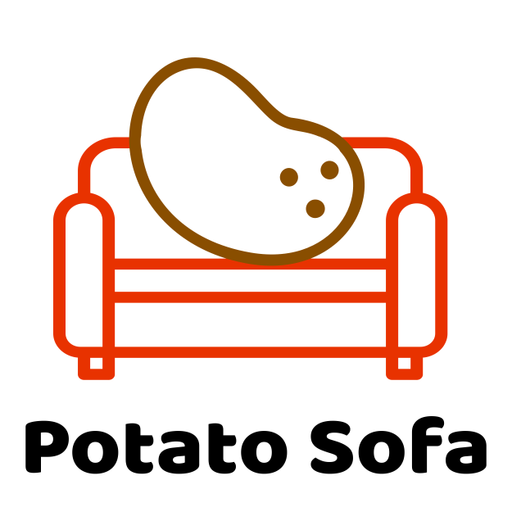
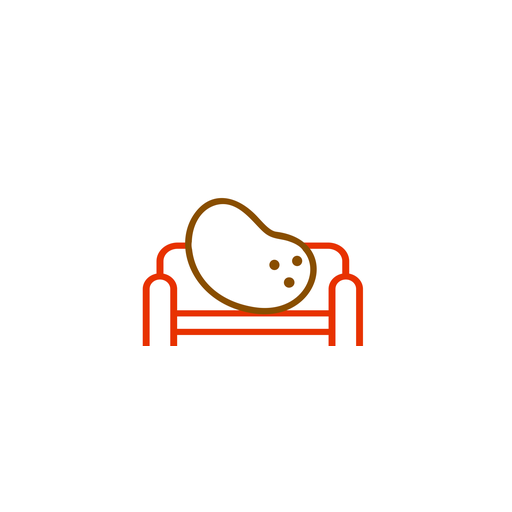
feat(shipping): quick due-date edit + mark-complete button + UI sync
- Add inline 更改出貨日 picker in card detail — saves directly to Trello without opening 排程出貨
- Add 標記完成 (🏁) button for Shipped cards, mirrors 標記已出貨 pattern
- Move both mark buttons to header as compact chips (like Trello native)
- onCardUpdate callback propagates idList/due changes back to parent so card list and header refresh immediately without reload
- Fix list name showing in English: merge Trello API response with LIST_NAMES so Chinese translations always take priority

feat(trello): add SOFA_AMOUNT custom field + fix label names
- Add SOFA_AMOUNT ("5d68a10ca487a032ea013c7f") confirmed via Trello API
- Rename FURNITURE_AMOUNT label 家具金額→傢俱, BEDDING_AMOUNT 寢具金額→床組 to match Trello field names

fix(pwa): regenerate icons without text, add safe-zone padding
- Crop "Potato Sofa" text from bottom of logo.png
- Rebuild icon-192.png, icon-512.png, apple-touch-icon.png with 22% padding
- Icons now display correctly without clipping in iOS rounded-rect mask

fix(middleware): add sw.js and workbox- to public path allowlist

diff --git a/src/app/shipping-notice/ShippingNoticeClient.tsx b/src/app/shipping-notice/ShippingNoticeClient.tsx
@@ -1,6 +1,7 @@
 "use client";
 
 import { useEffect, useMemo, useRef, useState } from "react";
+import { useRouter } from "next/navigation";
 import { Search, Copy, Check, Truck, X, ChevronLeft, ChevronRight, Printer, Navigation } from "lucide-react";
 
 import { Input } from "@/components/ui/input";
@@ -171,8 +172,9 @@ const CUSTOM_FIELD_DEFS: FieldDef[] = [
   { id: TRELLO.CUSTOM_FIELDS.ACCESSORIES,            label: "配件",          type: "text"   },
   { id: TRELLO.CUSTOM_FIELDS.CHAIR_LEG,              label: "椅腳",          type: "text"   },
   { id: TRELLO.CUSTOM_FIELDS.SEAT_MATERIALS,         label: "坐墊材料",      type: "text"   },
-  { id: TRELLO.CUSTOM_FIELDS.FURNITURE_AMOUNT,       label: "家具金額",      type: "number" },
-  { id: TRELLO.CUSTOM_FIELDS.BEDDING_AMOUNT,         label: "寢具金額",      type: "number" },
+  { id: TRELLO.CUSTOM_FIELDS.SOFA_AMOUNT,             label: "沙發",          type: "number" },
+  { id: TRELLO.CUSTOM_FIELDS.FURNITURE_AMOUNT,       label: "傢俱",          type: "number" },
+  { id: TRELLO.CUSTOM_FIELDS.BEDDING_AMOUNT,         label: "床組",          type: "number" },
   { id: TRELLO.CUSTOM_FIELDS.PRIMARY_CONTACT_NAME,   label: "主要聯絡人",    type: "text"   },
   { id: TRELLO.CUSTOM_FIELDS.PRIMARY_CONTACT_PHONE,  label: "主要電話",      type: "text"   },
   { id: TRELLO.CUSTOM_FIELDS.SECONDARY_CONTACT_NAME, label: "次要聯絡人",    type: "text"   },
@@ -287,7 +289,14 @@ function ResultModal({
           <Button variant="outline" size="sm" onClick={onClose}>
             關閉
           </Button>
-          <CopyButton text={content} label="複製全文" onCopied={onCopied} />
+          <CopyButton
+            text={content}
+            label="複製全文"
+            onCopied={async () => {
+              if (onCopied) await onCopied();
+              onClose();
+            }}
+          />
         </div>
       </div>
     </div>
@@ -1360,9 +1369,11 @@ interface CardDetailProps {
   drivers: DriverRecord[];
   attachments: TrelloAttachment[];
   onClose: () => void;
+  onCardUpdate?: (patch: Partial<TrelloCard>) => void;
 }
 
-function CardDetail({ card, drivers, attachments, onClose }: CardDetailProps) {
+function CardDetail({ card, drivers, attachments, onClose, onCardUpdate }: CardDetailProps) {
+  const router = useRouter();
   const [customFields, setCustomFields] = useState<CustomFieldItem[]>([]);
   const [loading, setLoading] = useState(true);
   const [view, setView] = useState<"actions" | "shipping" | "production" | "customer" | "checklist" | "customfields">("actions");
@@ -1370,15 +1381,29 @@ function CardDetail({ card, drivers, attachments, onClose }: CardDetailProps) {
   const [isMoving, setIsMoving] = useState(false);
   const [showMovePicker, setShowMovePicker] = useState(false);
   const [uploadState, setUploadState] = useState<"idle" | "uploading" | "done" | "error">("idle");
+  const [showDuePicker, setShowDuePicker] = useState(false);
+  const [dueDatetimeLocal, setDueDatetimeLocal] = useState("");
+  const [isSavingDue, setIsSavingDue] = useState(false);
 
   useEffect(() => {
     setLoading(true);
     setView("actions");
+    setShowDuePicker(false);
+    // Convert card.due (UTC ISO) to datetime-local format in local timezone
+    if (card.due) {
+      const d = new Date(card.due);
+      const pad = (n: number) => String(n).padStart(2, "0");
+      setDueDatetimeLocal(
+        `${d.getFullYear()}-${pad(d.getMonth() + 1)}-${pad(d.getDate())}T${pad(d.getHours())}:${pad(d.getMinutes())}`
+      );
+    } else {
+      setDueDatetimeLocal("");
+    }
     fetchCustomFields(card.id)
       .then(setCustomFields)
       .catch(() => setCustomFields([]))
       .finally(() => setLoading(false));
-  }, [card.id]);
+  }, [card.id, card.due]);
 
   useEffect(() => {
     async function handlePaste(e: ClipboardEvent) {
@@ -1448,6 +1473,7 @@ function CardDetail({ card, drivers, attachments, onClose }: CardDetailProps) {
   const driverTrelloLabel = card.labels.find((l) => l.id === driverLabel?.labelId);
   const styleLabel = card.labels.find((l) => l.name.startsWith("成交/"));
   const isWaitShipping = card.idList === TRELLO.LISTS.WAIT_SHIPPING;
+  const isShipped = card.idList === TRELLO.LISTS.SHIPPED;
   const checkTotal = card.badges?.checkItems ?? 0;
   const [checkDone, setCheckDone] = useState(card.badges?.checkItemsChecked ?? 0);
 
@@ -1456,6 +1482,7 @@ function CardDetail({ card, drivers, attachments, onClose }: CardDetailProps) {
     setIsMoving(true);
     try {
       await moveCardToList(card.id, TRELLO.LISTS.SHIPPED, true);
+      onCardUpdate?.({ idList: TRELLO.LISTS.SHIPPED, dueComplete: true });
     } catch (e: unknown) {
       alert(e instanceof Error ? e.message : "操作失敗");
     } finally {
@@ -1476,6 +1503,59 @@ function CardDetail({ card, drivers, attachments, onClose }: CardDetailProps) {
     }
   }
 
+  async function handleMarkCompleted() {
+    if (!window.confirm("確認將此卡片標記為「完成」？")) return;
+    setIsMoving(true);
+    try {
+      await moveCardToList(card.id, TRELLO.LISTS.COMPLETED, true);
+      onCardUpdate?.({ idList: TRELLO.LISTS.COMPLETED, dueComplete: true });
+    } catch (e: unknown) {
+      alert(e instanceof Error ? e.message : "操作失敗");
+    } finally {
+      setIsMoving(false);
+    }
+  }
+
+  async function handleUpdateDue() {
+    if (!dueDatetimeLocal) return;
+    setIsSavingDue(true);
+    try {
+      const iso = new Date(dueDatetimeLocal).toISOString();
+      await updateCardDue(card.id, iso, card.dueComplete ?? false);
+      onCardUpdate?.({ due: iso });
+      setShowDuePicker(false);
+    } catch (e: unknown) {
+      alert(e instanceof Error ? e.message : "更新失敗");
+    } finally {
+      setIsSavingDue(false);
+    }
+  }
+
+  async function handleCheckPayment() {
+    try {
+      const checklists = await fetchChecklists(card.id);
+      const allItems = checklists.flatMap((cl) => cl.checkItems);
+      const lastDollarItem = [...allItems].reverse().find((item) => item.name.includes("$"));
+      const dollarIndex = lastDollarItem?.name.indexOf("$") ?? -1;
+      const rawAmount = dollarIndex >= 0 ? lastDollarItem!.name.slice(dollarIndex) : "";
+      const cleanAmount = rawAmount.replace("$", "").replace(/,/g, "");
+      const orderNum = card.name.split(" ")[0] ?? "";
+      const driverLabel = drivers.find((d) => card.labels.some((l) => l.id === d.labelId));
+      const cardInfo = {
+        due: card.due ?? "",
+        dueComplete: card.dueComplete ?? false,
+        driverName: driverLabel?.title ?? "",
+      };
+      localStorage.setItem("CHECK_PAYMENT", "1");
+      localStorage.setItem("FINAL_PAYMENT", cleanAmount);
+      localStorage.setItem("ORDER_NUM_PAYMENT", orderNum);
+      localStorage.setItem("CURRENT_CARD_INFO", JSON.stringify(cardInfo));
+      router.push("/remittance");
+    } catch (e: unknown) {
+      alert(e instanceof Error ? e.message : "查收款項失敗");
+    }
+  }
+
   return (
     <div className="flex h-full flex-col">
       {/* Header */}
@@ -1490,6 +1570,24 @@ function CardDetail({ card, drivers, attachments, onClose }: CardDetailProps) {
               <span className={checkDone === checkTotal ? "text-green-600" : ""}>
                 ☑ {checkDone}/{checkTotal}
               </span>
+            )}
+            {isWaitShipping && (
+              <button
+                onClick={() => void handleMarkShipped()}
+                disabled={isMoving}
+                className="rounded px-1.5 py-0.5 text-xs font-medium bg-green-100 text-green-700 hover:bg-green-200 disabled:opacity-50"
+              >
+                {isMoving ? "…" : "✅ 標記已出貨"}
+              </button>
+            )}
+            {isShipped && (
+              <button
+                onClick={() => void handleMarkCompleted()}
+                disabled={isMoving}
+                className="rounded px-1.5 py-0.5 text-xs font-medium bg-green-100 text-green-700 hover:bg-green-200 disabled:opacity-50"
+              >
+                {isMoving ? "…" : "🏁 標記完成"}
+              </button>
             )}
           </p>
           {scheduleDisplay && (
@@ -1579,16 +1677,13 @@ function CardDetail({ card, drivers, attachments, onClose }: CardDetailProps) {
           />
         ) : (
           <div className="space-y-2">
-            {isWaitShipping && (
-              <button
-                onClick={() => void handleMarkShipped()}
-                disabled={isMoving}
-                className="flex w-full items-center gap-2 rounded-lg border border-green-300 bg-green-50 px-3 py-2.5 text-left text-sm text-green-700 hover:bg-green-100 disabled:opacity-50"
-              >
-                <span className="text-base">✅</span>
-                <span>{isMoving ? "更新中…" : "標記已出貨"}</span>
-              </button>
-            )}
+            <button
+              onClick={() => void handleCheckPayment()}
+              className="flex w-full items-center gap-2 rounded-lg border border-green-200 bg-green-50 px-3 py-2.5 text-left text-sm text-green-700 hover:bg-green-100"
+            >
+              <span className="text-base">💰</span>
+              <span>查收款項</span>
+            </button>
             <button
               onClick={() => setView("shipping")}
               className="flex w-full items-center gap-2 rounded-lg border border-[var(--border)] px-3 py-2.5 text-left text-sm hover:bg-[var(--bg-hover)]"
@@ -1643,6 +1738,41 @@ function CardDetail({ card, drivers, attachments, onClose }: CardDetailProps) {
               <span className="text-base">✂</span>
               <span>裁剪工作單</span>
             </button>
+            {showDuePicker ? (
+              <div className="rounded-lg border border-[var(--border)] p-2.5">
+                <p className="mb-2 text-xs font-medium text-[var(--text-secondary)]">更改出貨日期</p>
+                <input
+                  type="datetime-local"
+                  value={dueDatetimeLocal}
+                  onChange={(e) => setDueDatetimeLocal(e.target.value)}
+                  className="w-full rounded border border-[var(--border)] bg-[var(--bg-input)] px-2 py-1.5 text-sm"
+                />
+                <div className="mt-2 flex gap-2">
+                  <button
+                    onClick={() => void handleUpdateDue()}
+                    disabled={isSavingDue || !dueDatetimeLocal}
+                    className="flex-1 rounded bg-[var(--accent)] px-3 py-1.5 text-sm font-medium text-white disabled:opacity-50"
+                  >
+                    {isSavingDue ? "儲存中…" : "儲存"}
+                  </button>
+                  <button
+                    onClick={() => setShowDuePicker(false)}
+                    className="rounded px-3 py-1.5 text-sm text-[var(--text-tertiary)] hover:bg-[var(--bg-hover)]"
+                  >
+                    取消
+                  </button>
+                </div>
+              </div>
+            ) : (
+              <button
+                onClick={() => setShowDuePicker(true)}
+                className="flex w-full items-center gap-2 rounded-lg border border-[var(--border)] px-3 py-2.5 text-left text-sm hover:bg-[var(--bg-hover)]"
+              >
+                <span className="text-base">🗓</span>
+                <span>更改出貨日</span>
+                {dueDate && <span className="ml-auto text-xs text-[var(--text-tertiary)]">{dueDate}</span>}
+              </button>
+            )}
             {showMovePicker ? (
               <div className="rounded-lg border border-[var(--border)] p-2.5">
                 <p className="mb-2 text-xs font-medium text-[var(--text-secondary)]">移動到清單...</p>
@@ -1708,6 +1838,7 @@ export function ShippingNoticeClient() {
   const [cardCustomFieldsMap, setCardCustomFieldsMap] = useState<Record<string, CustomFieldItem[]>>({});
   const [previewImages, setPreviewImages] = useState<string[][] | null>(null);
   const inputRef = useRef<HTMLInputElement>(null);
+  const skipSearchRef = useRef(false);
   const selectedCardId = selectedCard?.id ?? null;
   const previewCardId = selectedCardId ?? cards[0]?.id ?? null;
   // thumbnail URLs for the last image (display in search card)
@@ -1726,10 +1857,33 @@ export function ShippingNoticeClient() {
       .then((lists) => {
         const map: Record<string, string> = {};
         for (const l of lists) map[l.id] = l.name;
-        setListNames(map);
+        // LIST_NAMES 的中文翻譯優先，其餘清單保留 Trello 原名
+        setListNames({ ...map, ...LIST_NAMES });
       })
       .catch(() => {});
   }, []);
+
+  useEffect(() => {
+    const savedQuery = sessionStorage.getItem("shipping_notice_query");
+    const savedCards = sessionStorage.getItem("shipping_notice_cards");
+    if (!savedQuery) return;
+    setQuery(savedQuery);
+    if (savedCards) {
+      try {
+        const parsed = JSON.parse(savedCards) as TrelloCard[];
+        setCards(parsed);
+        if (parsed.length === 1) setSelectedCard(parsed[0]);
+        skipSearchRef.current = true;
+        setSubmittedQuery(savedQuery);
+      } catch { /* ignore */ }
+    }
+  }, []);
+
+  useEffect(() => {
+    if (submittedQuery && cards.length > 0) {
+      sessionStorage.setItem("shipping_notice_cards", JSON.stringify(cards));
+    }
+  }, [cards, submittedQuery]);
 
   useEffect(() => {
     setCardAttachmentsCardId(previewCardId);
@@ -1750,6 +1904,10 @@ export function ShippingNoticeClient() {
       setSelectedCard(null);
       setCards([]);
       setSearchError("");
+      return;
+    }
+    if (skipSearchRef.current) {
+      skipSearchRef.current = false;
       return;
     }
     setSearching(true);
@@ -1778,6 +1936,7 @@ export function ShippingNoticeClient() {
   function handleSearch() {
     const q = query.trim();
     if (!q) return;
+    sessionStorage.setItem("shipping_notice_query", q);
     setSubmittedQuery(q);
   }
 
@@ -1940,6 +2099,10 @@ export function ShippingNoticeClient() {
               drivers={drivers}
               attachments={cardAttachments}
               onClose={() => setSelectedCard(null)}
+              onCardUpdate={(patch) => {
+                setSelectedCard((prev) => prev ? { ...prev, ...patch } : prev);
+                setCards((prev) => prev.map((c) => c.id === selectedCard.id ? { ...c, ...patch } : c));
+              }}
             />
           </div>
         )}

diff --git a/src/middleware.ts b/src/middleware.ts
@@ -63,6 +63,9 @@ function isPublicPath(pathname: string): boolean {
     pathname.startsWith("/_next") ||
     pathname === "/favicon.ico" ||
     pathname === "/logo.png" ||
+    pathname === "/sw.js" ||
+    pathname === "/sw.js.map" ||
+    pathname.startsWith("/workbox-") ||
     pathname.endsWith(".png") ||
     pathname.endsWith(".jpg") ||
     pathname.endsWith(".svg") ||
@@ -148,6 +151,6 @@ export const config = {
      * - _next/image (image optimization files)
      * - favicon, logo, manifest etc.
      */
-    "/((?!_next/static|_next/image|favicon.ico|logo.png|manifest.json).*)",
+    "/((?!_next/static|_next/image|favicon.ico|logo.png|manifest.json|sw.js|workbox-).*)",
   ],
 };

diff --git a/src/lib/trello-constants.ts b/src/lib/trello-constants.ts
@@ -14,6 +14,7 @@ export const TRELLO = {
     SCHEDULE_TEXT: "5fc362589d1bde25df28d934",
     SCHEDULE_DAY: "5dbffb41d3233f81ca015792",
     COMMUNITY_NAME: "60de85e6d4389c54299831bb",
+    SOFA_AMOUNT: "5d68a10ca487a032ea013c7f",
     FURNITURE_AMOUNT: "5d68a112581dc1340a260357",
     BEDDING_AMOUNT: "5d68a11ab1d2721a2710e1db",
     ACCESSORIES: "61c2d6b5b453cc517914c966",
